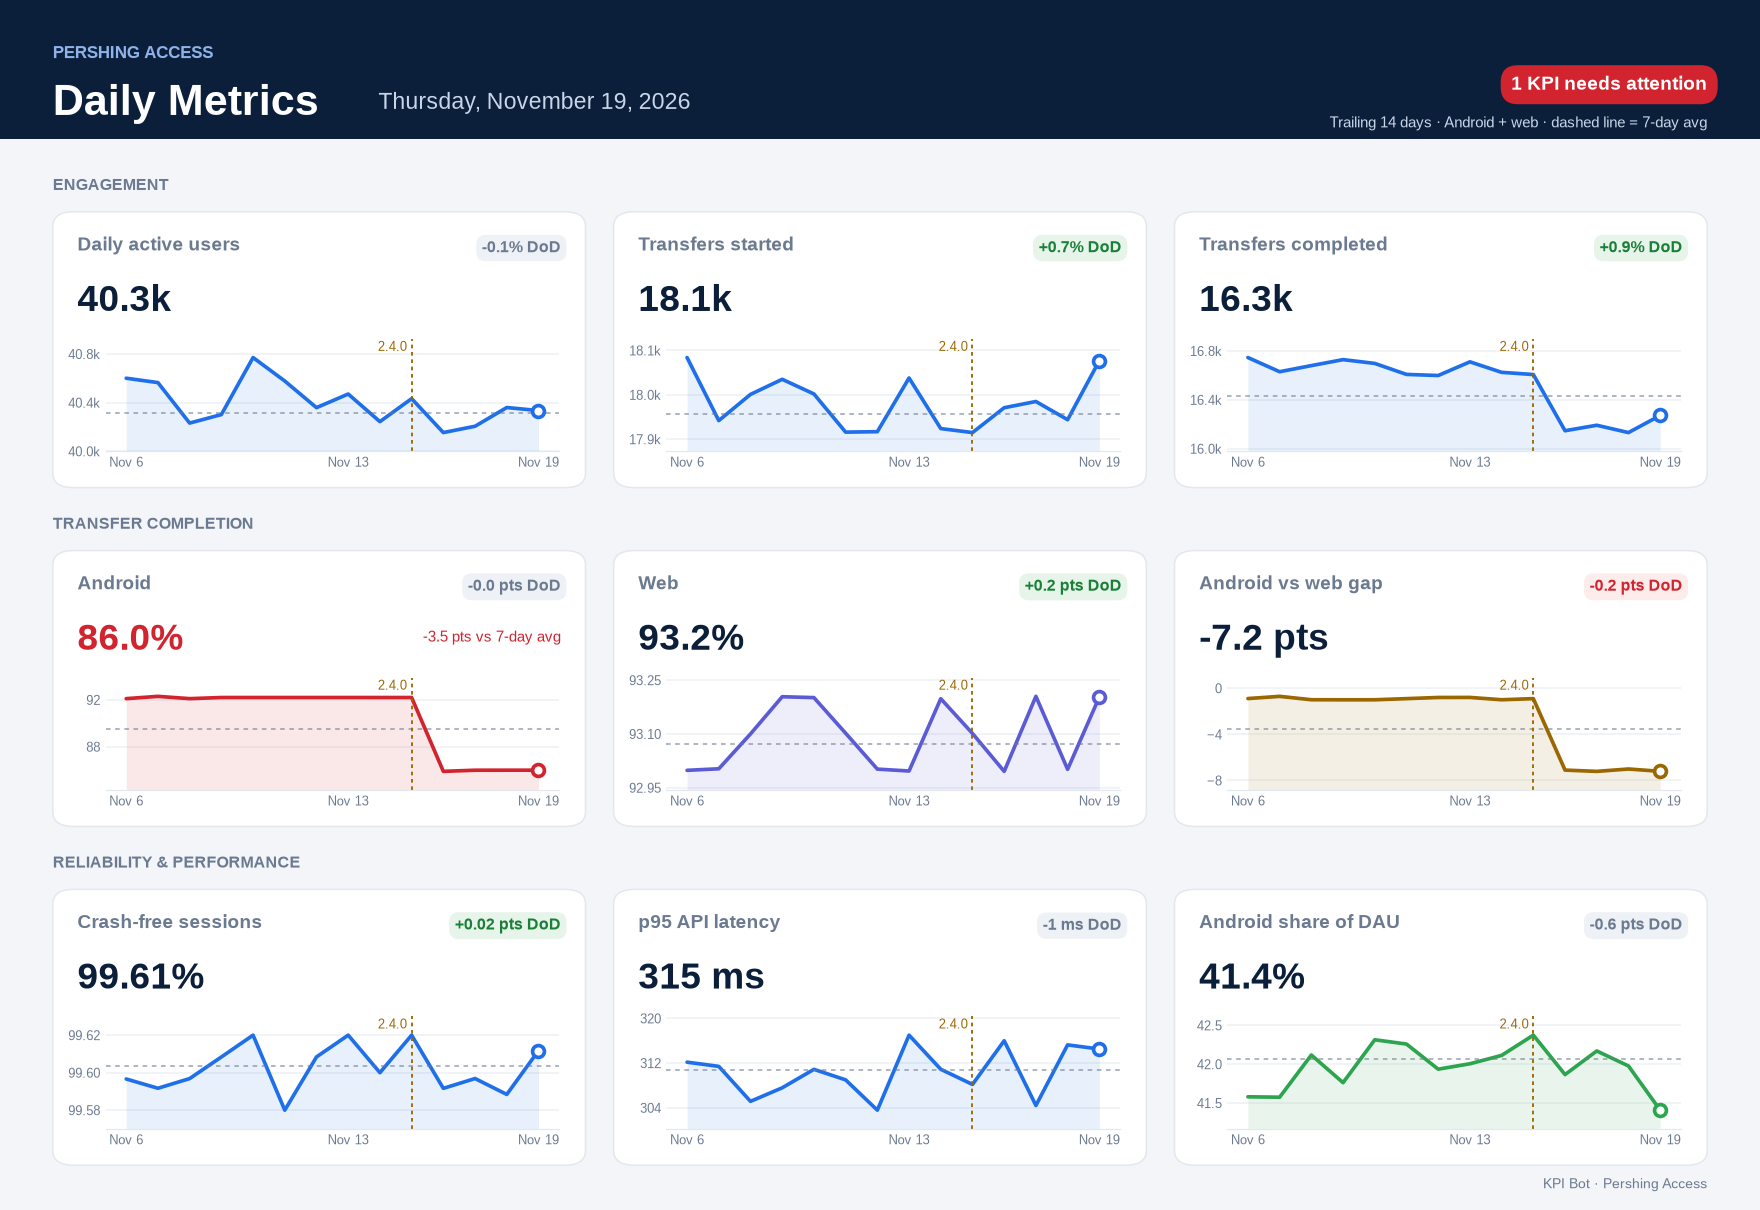
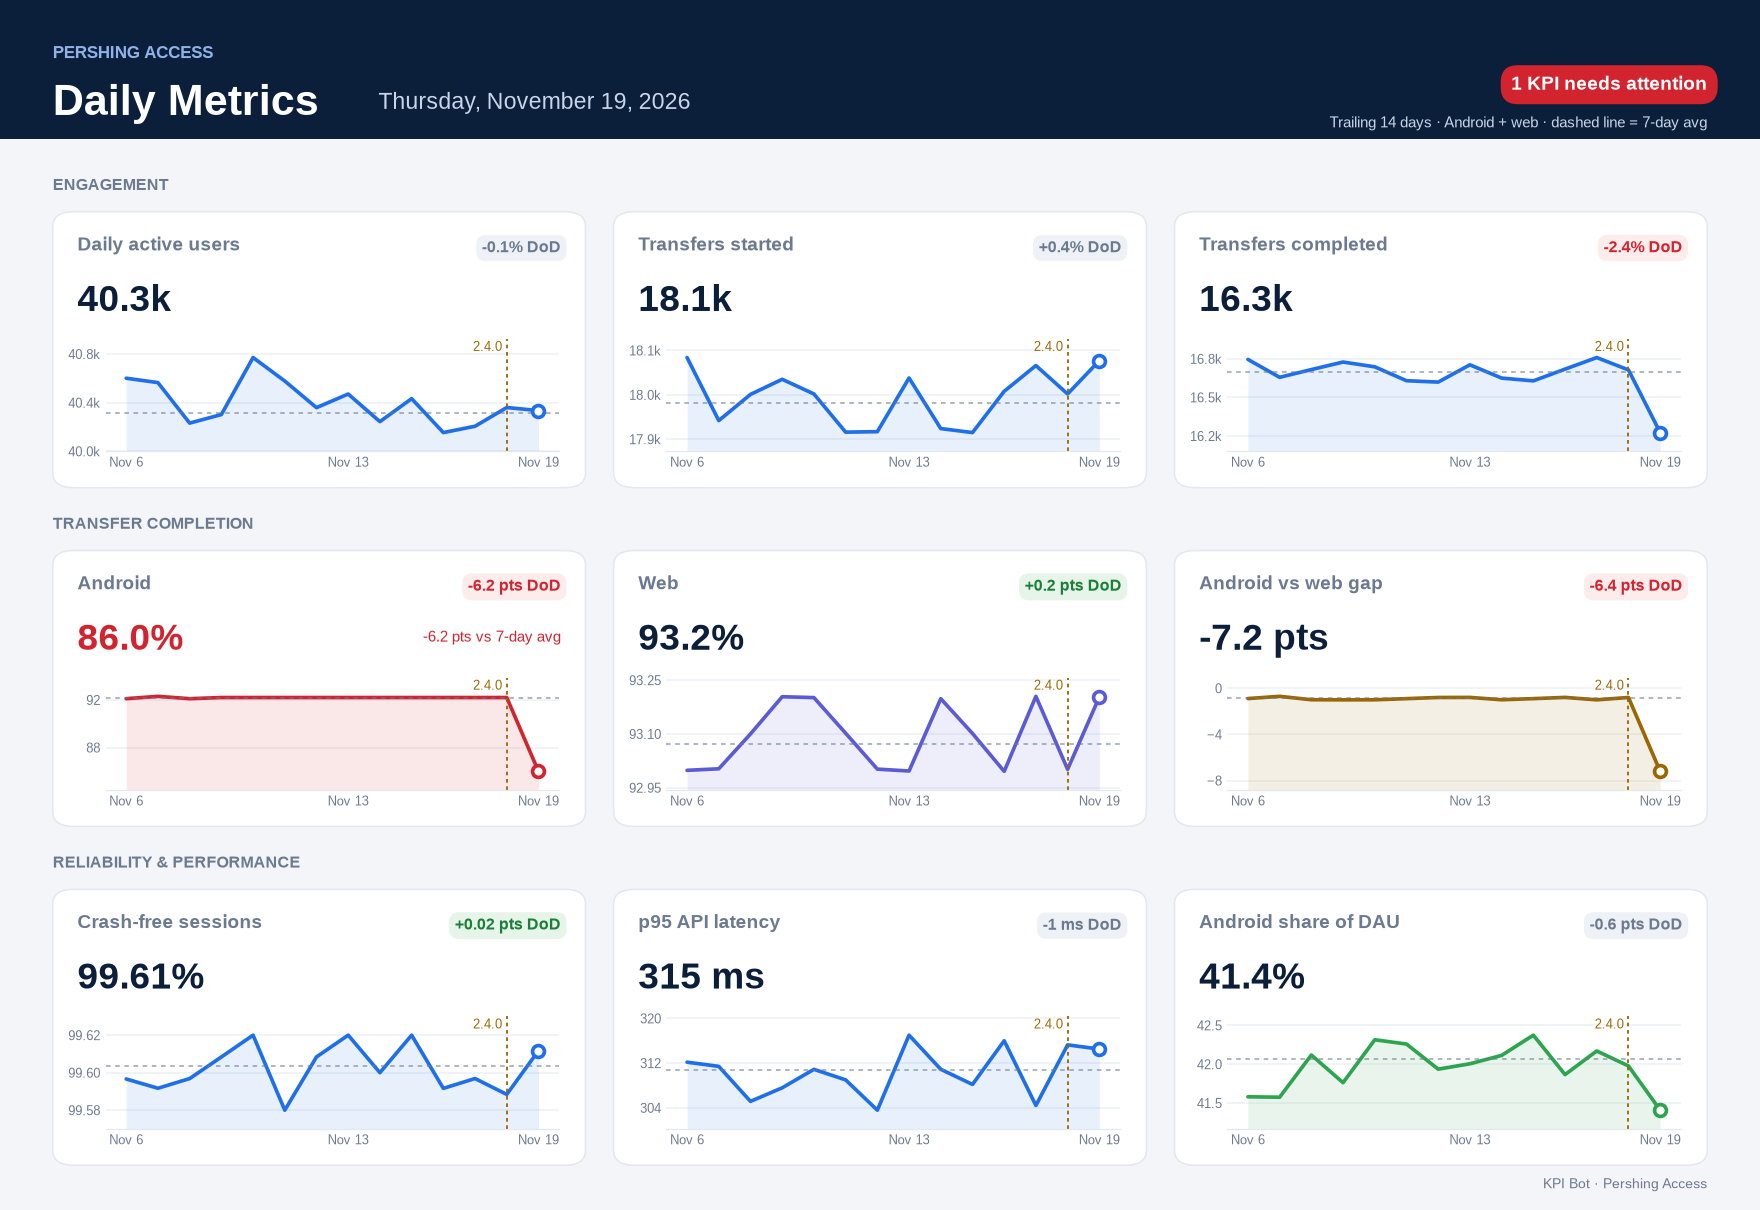
feat(pershing): Mon-Wed Nov 16-18 normal, Android drop on Thu Nov 19 (2.4.0 rolls out Nov 18); seed 14 days (#14085)

diff --git a/tests/pershing-kpis.test.js b/tests/pershing-kpis.test.js
@@ -38,26 +38,29 @@ describe('Pershing Access KPI posts', () => {
     expect(analysis.isDrop).toBe(false);
   });
 
-  test('flags Nov 16 as a new Android completion drop and later days as continuing', () => {
-    const drop = kpis.analyzeDay('2026-11-16');
+  test('keeps Mon-Wed Nov 16-18 normal, flags Thu Nov 19 as a new drop and Nov 20 as continuing', () => {
+    ['2026-11-16', '2026-11-17', '2026-11-18'].forEach((d) => expect(kpis.analyzeDay(d).isDrop).toBe(false));
+    const drop = kpis.analyzeDay('2026-11-19');
     expect(drop.isNewDrop).toBe(true);
-    expect(drop.dropPts).toBeCloseTo(6.3, 1);
-    expect(kpis.renderDay('2026-11-16').text).toContain('Android transfer completion is 6.3 pts below');
-    expect(kpis.analyzeDay('2026-11-17').isDrop).toBe(true);
-    expect(kpis.analyzeDay('2026-11-17').isNewDrop).toBe(false);
+    expect(drop.dropPts).toBeCloseTo(6.2, 1);
+    expect(kpis.renderDay('2026-11-19').text).toContain('Android transfer completion is 6.2 pts below');
+    expect(kpis.analyzeDay('2026-11-20').isDrop).toBe(true);
+    expect(kpis.analyzeDay('2026-11-20').isNewDrop).toBe(false);
   });
 
-  test('seed posts Nov 9-15 without paging the Bot', async () => {
+  test('seed posts the 14 normal days Nov 5-18 without paging the Bot', async () => {
     const run = await kpis.seed();
-    expect(run.posts.map((p) => p.date)).toEqual(['2026-11-09', '2026-11-10', '2026-11-11', '2026-11-12', '2026-11-13', '2026-11-14', '2026-11-15']);
-    expect(axios.post.mock.calls.filter((c) => c[0].endsWith('chat.postMessage'))).toHaveLength(7);
-    expect(axios.post.mock.calls[0][1].blocks[1].image_url).toBe('https://devindemos.com/pershing/kpi/2026-11-09.png');
+    expect(run.posts.map((p) => p.date)).toHaveLength(14);
+    expect(run.posts[0].date).toBe('2026-11-05');
+    expect(run.posts[13].date).toBe('2026-11-18');
+    expect(axios.post.mock.calls.filter((c) => c[0].endsWith('chat.postMessage'))).toHaveLength(14);
+    expect(axios.post.mock.calls[0][1].blocks[1].image_url).toBe('https://devindemos.com/pershing/kpi/2026-11-05.png');
     expect(sendDevinSessionMessage).not.toHaveBeenCalled();
-    expect(kpis.getState().nextDate).toBe('2026-11-16');
+    expect(kpis.getState().nextDate).toBe('2026-11-19');
   });
 
   test('drop day pages the Bot into the post thread and schedules personas there', async () => {
-    const run = await kpis.nextDay({ date: '2026-11-16' });
+    const run = await kpis.nextDay({ date: '2026-11-19' });
     expect(run.posts[0].investigation).toMatchObject({ paged: true, personas: 3 });
     expect(inviteToChannel).toHaveBeenCalledWith('xoxb-test', 'C0CKGCDNJ2V', ['U0CK6TNG7T3']);
     const [botId, page] = sendDevinSessionMessage.mock.calls[0];
@@ -95,7 +98,7 @@ describe('Pershing Access KPI posts', () => {
 
   test('a plain-text hand-off that names Jordan also starts the personas', async () => {
     getThreadReplies.mockResolvedValue([{ user: 'U0CK6TNG7T3', text: "Jordan Ellis, you own the confirm flow, so I'm handing this to you." }]);
-    await kpis.nextDay({ date: '2026-11-16' });
+    await kpis.nextDay({ date: '2026-11-19' });
     await jest.advanceTimersByTimeAsync(5000);
     await jest.advanceTimersByTimeAsync(10000);
     expect(postPersonaMessage).toHaveBeenCalledTimes(3);
@@ -103,7 +106,7 @@ describe('Pershing Access KPI posts', () => {
 
   test('personas start after the timeout when the Bot never hands off', async () => {
     getThreadReplies.mockResolvedValue([]);
-    await kpis.nextDay({ date: '2026-11-16' });
+    await kpis.nextDay({ date: '2026-11-19' });
     await jest.advanceTimersByTimeAsync(375000);
     expect(postPersonaMessage).toHaveBeenCalledTimes(3);
   });
@@ -111,7 +114,7 @@ describe('Pershing Access KPI posts', () => {
   test('pages through the Bot-owned webhook with the thread when one is configured', async () => {
     process.env.PERSHING_KPI_BOT_WEBHOOK_URL = 'https://example.test/hook';
     process.env.BNY_IOS_BOT_WEBHOOK_SECRET = 'shh';
-    const run = await kpis.nextDay({ date: '2026-11-16' });
+    const run = await kpis.nextDay({ date: '2026-11-19' });
     expect(run.posts[0].investigation).toMatchObject({ paged: true, via: 'webhook' });
     expect(sendDevinSessionMessage).not.toHaveBeenCalled();
     const [url, body, config] = axios.post.mock.calls.find((c) => c[0] === 'https://example.test/hook');
@@ -162,7 +165,7 @@ describe('Pershing Access KPI posts', () => {
 
   test('clear cancels persona replies still scheduled for the cleared thread', async () => {
     getThreadReplies.mockResolvedValue([{ user: 'U0CK6TNG7T3', text: "I've done this analysis, @Jordan Ellis, can you jump in and look deeper?" }]);
-    await kpis.nextDay({ date: '2026-11-16' });
+    await kpis.nextDay({ date: '2026-11-19' });
     await jest.advanceTimersByTimeAsync(5000);
     getChannelHistory.mockResolvedValue([]);
     await kpis.clearChannel();
@@ -171,7 +174,7 @@ describe('Pershing Access KPI posts', () => {
   });
 
   test('a continuing drop day does not page the Bot again', async () => {
-    await kpis.nextDay({ date: '2026-11-17' });
+    await kpis.nextDay({ date: '2026-11-20' });
     expect(sendDevinSessionMessage).not.toHaveBeenCalled();
   });
 });

diff --git a/app/services/pershing-kpis.js b/app/services/pershing-kpis.js
@@ -10,7 +10,7 @@ const logger = require('../telemetry/logger');
 const DEFAULT_CHANNEL_ID = 'C0CKGCDNJ2V';
 const DEFAULT_BOT_ID = 'bot-59656379ddc5470281166b1458334c2c';
 const DEFAULT_BOT_SLACK_ID = 'U0CK6TNG7T3';
-const DEFAULT_SEED = { from: '2026-11-09', to: '2026-11-15' };
+const DEFAULT_SEED = { from: '2026-11-05', to: '2026-11-18' };
 const DROP_THRESHOLD_PTS = 2;
 const BASELINE_DAYS = 7;
 const DEFAULT_BOT_WEBHOOK_URL = 'https://devin-gtm.devinenterprise.com/api/webhooks/automations/org_69IXJFLrljx8zSAw/auto-2203779474c643fb9262f44c8fd61791';

diff --git a/app/public/pershing-kpis.html b/app/public/pershing-kpis.html
@@ -25,7 +25,7 @@
   <div class="card">
     <b>1. Seed the run-up</b>
     <p>Posts Nov 9 to Nov 15 (pre-2.4.0, steady day over day).</p>
-    <button id="seed">Seed 7 days</button>
+    <button id="seed">Seed 14 days</button>
   </div>
   <div class="card">
     <b>2. Post the next day</b>

diff --git a/scripts/pershing-kpi-dashboards.py b/scripts/pershing-kpi-dashboards.py
@@ -18,7 +18,7 @@ plt.rcParams['font.family'] = ['Liberation Sans', 'DejaVu Sans']
 ROOT = Path(__file__).resolve().parent.parent
 CONFIG = json.loads((ROOT / 'config/pershing/kpi-days.json').read_text())
 DAYS = CONFIG['days']
-ROLLOUT = CONFIG.get('release', {}).get('rolloutDate', '2026-11-15')
+ROLLOUT = CONFIG['release']['rolledOut']
 OUT = ROOT / 'app/public/pershing/kpi'
 WINDOW = 14
 BASELINE = 7
